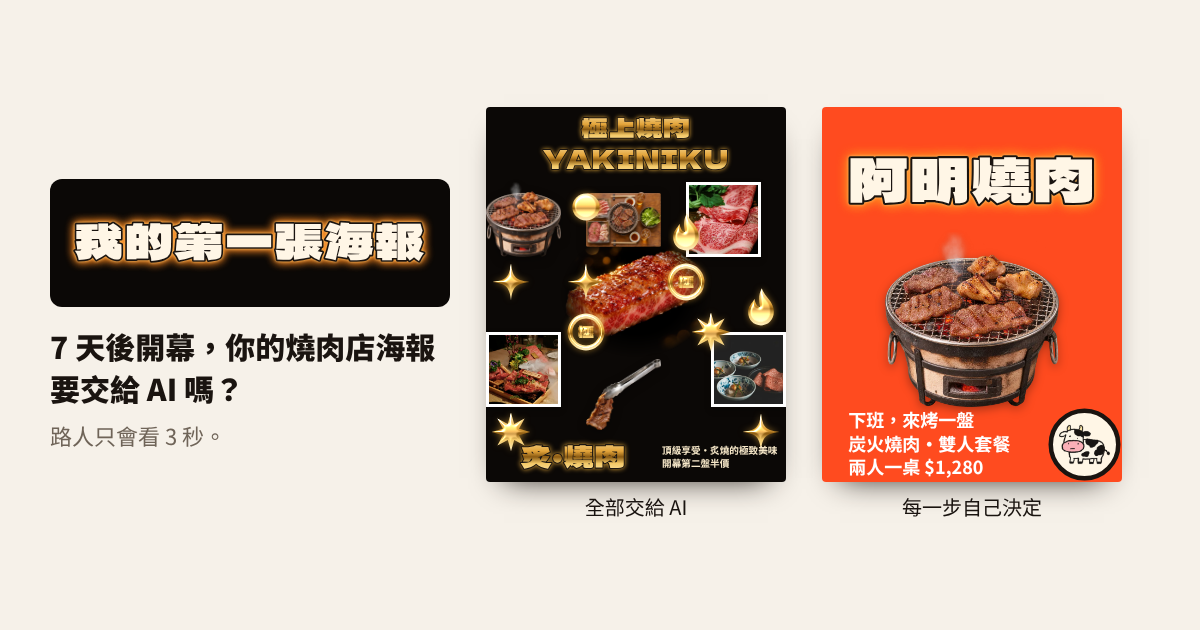
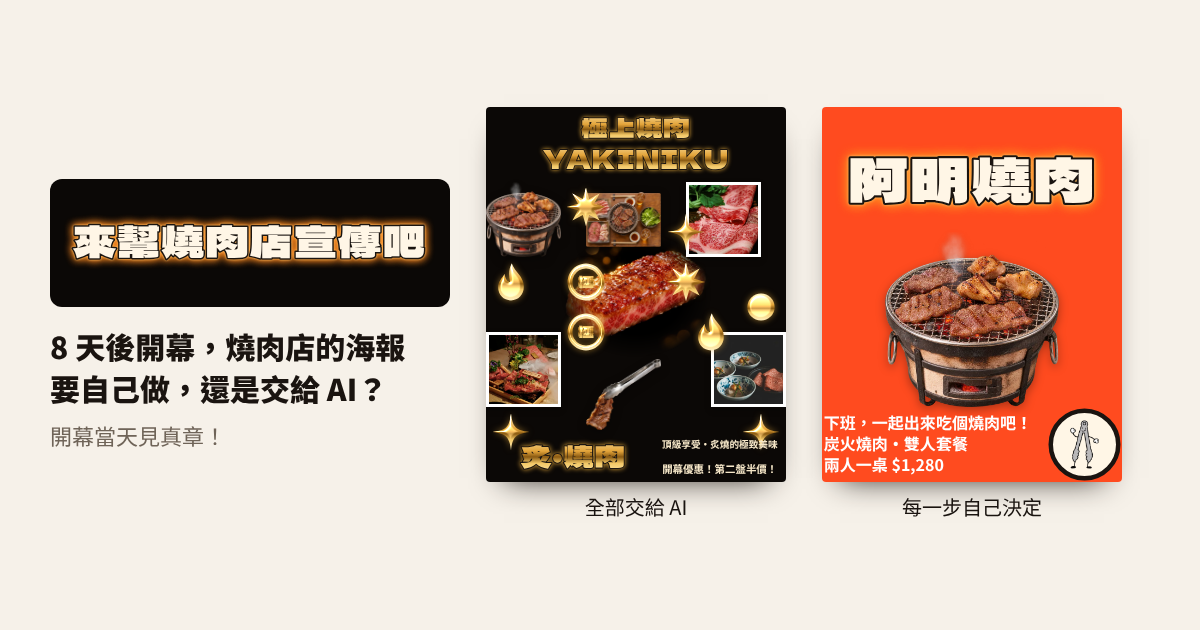
燒肉版依總文件（Kiki 11/20 修改）更新到 v0.2
文字
- 開場：大標「來幫燒肉店宣傳吧」、內文「肉都是我自己切的，海報也自己做吧！」「開幕當天見真章！」
- 時間不夠的提示改成「時間不夠了，……」
- 店名標題「你的店名要叫什麼？」、提示「例如：火火燒肉」；AI 店名換成熊哥燒肉、肉五花；店名判斷拿掉「網」
- 需求單標題「你要放上什麼資訊？」，選項改成店的屬性、主打商品、消費金額、店的調性、訂位電話、開幕優惠、行銷，海報上的字照文件更新
- AI 生成的話拿掉「很吸睛吧？✨」和 ✨
- 送印小字拿掉橫幅；收尾「如果每張海報都長這樣，這是你想要的世界嗎？」；頁尾只留版本和專題名

品牌識別備註（Kiki 要求改寫成好懂的一句話）
- 店名：品牌識別 1／3・名字｜客人記住你的第一步，是叫得出你的名字。
- Logo：品牌識別 2／3・記號｜名字之外，再給客人一個圖案，看一眼就認得。
- 顏色：品牌識別 3／3・代表色｜同一組顏色一直用，客人遠遠看到就知道是你。

功能
- Logo 的吉祥物印章每局隨機出現小牛、火苗或夾子
- 文字資訊每一行變成獨立物件，可以分開拖動、放大縮小、刪掉；「放回文字資訊」只放回被刪掉的那幾行
- 開幕倒數改成 8 天，全部自己做（含找人看、分層檔送印）剛好用完（Y2K 版仍是 7 天）

計分
- 背景是翠綠、桃粉 M−4（原本是黑底 M−4）
- 「文字資訊超過 4 行 K−10」改成數獨立的文字行
- 三條路線重測：全交給 AI 11（看不懂）、一半一半 45–47（一間店）、全部自己做 89（寶藏小店，剩 0 天）

另外更新分享預覽圖與網頁標題

Claude-Session: https://claude.ai/code/session_01V34SnxdM24RdT7XxqL4GW3

diff --git a/yakiniku/index.html b/yakiniku/index.html
@@ -3,10 +3,10 @@
 <head>
 <meta charset="utf-8">
 <meta name="viewport" content="width=device-width,initial-scale=1,maximum-scale=1">
-<title>我的第一張海報｜燒肉店</title>
-<meta name="description" content="7 天後開幕，做出你燒肉店的第一張海報。全部交給 AI 很快也很高級，但路人看得懂嗎？">
-<meta property="og:title" content="我的第一張海報｜燒肉店">
-<meta property="og:description" content="7 天後開幕，做出你燒肉店的第一張海報。全部交給 AI 很快也很高級，但路人看得懂嗎？">
+<title>來幫燒肉店宣傳吧｜海報遊戲</title>
+<meta name="description" content="8 天後開幕，做出你燒肉店的第一張海報。自己做，還是交給 AI？開幕當天見真章！">
+<meta property="og:title" content="來幫燒肉店宣傳吧｜海報遊戲">
+<meta property="og:description" content="8 天後開幕，做出你燒肉店的第一張海報。自己做，還是交給 AI？開幕當天見真章！">
 <meta property="og:image" content="https://merelhuang1989-source.github.io/y2k-poster-game/yakiniku/og.png">
 <meta property="og:url" content="https://merelhuang1989-source.github.io/y2k-poster-game/yakiniku/">
 <meta property="og:type" content="website">
@@ -37,6 +37,8 @@ body{font-family:"Noto Sans TC","PingFang TC",sans-serif;color:var(--ink);backgr
 h2{font-size:22px;margin:0 0 6px;font-weight:900}
 p{line-height:1.65;margin:6px 0}
 .sub{color:var(--mute);font-size:14px}
+.cis{display:inline-block;margin:2px 0 8px;padding:5px 10px;border-radius:8px;background:#fff3e0;border:1.5px solid #ffb37a;font-size:13.5px;line-height:1.5}
+.cis b{color:#d13a12;margin-right:4px}
 .opts{display:grid;gap:10px;margin-top:14px}
 .opt{display:flex;gap:12px;align-items:center;text-align:left;width:100%;border:2px solid var(--line);background:#fff;border-radius:12px;padding:12px;font:inherit;color:inherit;cursor:pointer}
 .opt:active{transform:scale(.99)}
@@ -163,7 +165,7 @@ input[type=text]{width:100%;font:inherit;font-size:18px;padding:12px 14px;border
    資料都在 DATA 區，要改文字或數值只改這一區。正本：Drive「海報遊戲_燒肉_總文件（唯一正本）」
    ========================================================= */
 const SURVEY_URL = 'https://ooopenlab.cc/preview/yyfDpRRFjwKCDO0Lup46'; // 問卷 C（目前是預覽網址）
-const START_DAYS = 7;
+const START_DAYS = 8;   // 11/20 Kiki：7 天不夠全部自己做到送印，改 8 天（Y2K 版仍是 7 天）
 const COLS = 12, ROWS = 15;          // 排版格線 12 欄 × 15 列（每格正方形）
 const TITLE_FONT = "Mantou";         // 標題：饅頭黑體（OFL）
 const BODY_FONT = "'Noto Sans TC'";  // 內文：思源黑體（Noto Sans TC）
@@ -176,9 +178,14 @@ const PRODUCTS = [
   {id:'p5', file:'img/prod_tongs.webp', name:'夾起來的烤牛肉'},
   {id:'p6', file:'img/u_bowls.webp', name:'小菜和生肉片', photo:true},
 ];
-const AI_MEAT = 'img/ai_meat.webp';   // AI 自己想時放的「金光發亮的和牛」
-const AI_NAMES = ['炙・燒肉','焰・燒肉','燒肉・極','炭火・匠','燃・燒肉','焔・YAKINIKU','極上和牛'];
-const NAME_HINT = /燒|焼|肉|烤|炭|牛|豬|雞|串|網/;
+const AI_MEAT = 'img/ai_meat.webp';
+const MASCOTS = {
+  cow:   {label:'小牛印章', note:'店名配一隻只屬於你的小牛', file:'img/char_cow.webp'},
+  flame: {label:'火苗印章', note:'店名配一團只屬於你的小火苗', file:'img/char_flame.webp'},
+  tongs: {label:'夾子印章', note:'店名配一支只屬於你的燒烤夾', file:'img/char_tongs.webp'},
+};   // AI 自己想時放的「金光發亮的和牛」
+const AI_NAMES = ['炙・燒肉','焰・燒肉','燒肉・極','炭火・匠','燃・燒肉','熊哥燒肉','肉五花'];
+const NAME_HINT = /燒|焼|肉|烤|炭|牛|豬|雞|串/;
 
 // 背景純色（高彩度市場組；黑是 AI 預設）
 const BGS = {
@@ -194,7 +201,7 @@ const APPETITE = {red:6, yellow:4, black:0, pink:-4, green:-6};
 // 分數四項：K 一眼看懂、T 打中對的人、M 記得住、P 好看（只顯示不計分）
 const LOGOS = {
   gold:  {label:'金色火焰字', note:'跟 AI 圖最像的那種金亮字', fx:{P:8,M:2}},
-  cow:   {label:'小牛印章', note:'店名配一隻只屬於你的小牛', fx:{M:12}},
+  cow:   {label:'吉祥物印章', note:'', fx:{M:12}},   // 圖案每局隨機：小牛、火苗、夾子（見 MASCOTS）
   stamp: {label:'圓形店章', note:'像店章，小小的也認得出來', fx:{M:10,K:3}},
   ai:    {label:'交給 AI', note:'', fx:{M:-10,P:10}},
 };
@@ -211,15 +218,15 @@ const TITLE_STYLES = {
   gold: {label:'金箔金光', fill:'url(#goldG)', glow:'glowGold', fx:{K:-6,P:8}},
 };
 const BRIEF = [
-  {id:'A', label:'客群：附近上班族，下班想跟朋友聚餐', line:'下班，來烤一盤', fx:{T:20}},
-  {id:'B', label:'賣什麼：炭火燒肉、雙人套餐', line:'炭火燒肉・雙人套餐', fx:{K:18}},
-  {id:'C', label:'主打：本週厚切牛舌', line:'本週主打｜厚切牛舌', fx:{K:6,M:4}},
-  {id:'D', label:'價格：兩人一桌 $1,280', line:'兩人一桌 $1,280', fx:{T:10}},
-  {id:'E', label:'店的個性：每一塊肉都是老闆自己切的', line:'每一塊肉都是老闆自己切的', fx:{M:12,T:5}},
-  {id:'F', label:'地址＋營業時間', line:'民生路 ○○ 號｜17:00–24:00', fx:{K:3}},
-  {id:'G', label:'IG 帳號', line:'IG 搜尋店名', fx:{M:3}},
-  {id:'H', label:'開幕優惠：第二盤半價', line:'開幕第二盤半價', fx:{T:3}},
-  {id:'I', label:'熱門詞：「頂級」「極致」「炙燒美味」', line:'頂級享受・炙燒的極致美味', fx:{M:-8,P:5}},
+  {id:'A', label:'客群：附近上班族，下班想跟朋友聚餐', line:'下班，一起出來吃個燒肉吧！', fx:{T:20}},
+  {id:'B', label:'店的屬性', line:'炭火燒肉・雙人套餐', fx:{K:18}},
+  {id:'C', label:'主打商品', line:'本週主打｜厚切牛舌', fx:{K:6,M:4}},
+  {id:'D', label:'消費金額', line:'兩人一桌 $1,280', fx:{T:10}},
+  {id:'E', label:'店的調性', line:'每一塊肉都是老闆自己切的', fx:{M:12,T:5}},
+  {id:'F', label:'地址＋營業時間', line:'大觀路32號｜17:00–24:00', fx:{K:3}},
+  {id:'G', label:'訂位電話', line:'02-0000-0000', fx:{M:3}},
+  {id:'H', label:'開幕優惠', line:'開幕優惠！第二盤半價！', fx:{T:3}},
+  {id:'I', label:'行銷', line:'頂級享受・炙燒的極致美味', fx:{M:-8,P:5}},
 ];
 const AI_BRIEF = ['I','H'];
 
@@ -249,7 +256,7 @@ const RESEARCH = {
 let S;
 function reset(){
   S = {
-    step:'intro', days:START_DAYS, luck:Math.round(Math.random()*10-5),
+    step:'intro', days:START_DAYS, mascot:shuffle(Object.keys(MASCOTS))[0], luck:Math.round(Math.random()*10-5),
     name:'', nameAI:null, aiNamePick:shuffle(AI_NAMES).slice(0,3),
     logo:null, palette:null, titleStyle:null, colorAI:null, bg:null,
     brief:new Set(), briefAI:null, products:new Set(['p1','p3']),
@@ -329,10 +336,9 @@ function scores(st=S){
     const n=els.filter(e=>e.type==='sticker').length;
     P+=Math.min(16,n*2);
     if(n>=8){K-=15;flags.add('clutter')} else if(n>=4){K-=8;flags.add('clutter')}
-    const info=els.find(e=>e.type==='info');
-    if(info && items.length>4)K-=10;
+    if(els.filter(e=>e.type==='info').length>4)K-=10;   // 文字資訊超過 4 行
     if(!st.layoutSelf){M-=8;flags.add('distinct')}
-    if(st.bg==='black'){M-=4}
+    if(st.bg==='green'||st.bg==='pink'){M-=4}
     K+=APPETITE[st.bg]||0;
   }
   if(st.tested)K+=5;
@@ -346,7 +352,7 @@ function scores(st=S){
 /* ===================== 海報 ===================== */
 function logoSVG(kind, name, ink){
   const ch=[...(name||'燒肉')].filter(c=>c.trim()&&!/[・·]/.test(c)).slice(0,2).join('');
-  if(kind==='cow') return `<svg viewBox="0 0 100 100"><circle cx="50" cy="50" r="45" fill="#fff6e6" stroke="${ink==='#ffffff'?'#1a1410':ink}" stroke-width="6"/><image href="img/char_cow.webp" x="16" y="20" width="68" height="60" preserveAspectRatio="xMidYMid meet"/></svg>`;
+  if(kind==='cow') return `<svg viewBox="0 0 100 100"><circle cx="50" cy="50" r="45" fill="#fff6e6" stroke="${ink==='#ffffff'?'#1a1410':ink}" stroke-width="6"/><image href="${MASCOTS[S.mascot||'cow'].file}" x="18" y="18" width="64" height="64" preserveAspectRatio="xMidYMid meet"/></svg>`;
   if(kind==='stamp') return `<svg viewBox="0 0 100 100"><circle cx="50" cy="50" r="43" fill="none" stroke="${ink}" stroke-width="6"/><circle cx="50" cy="50" r="35" fill="none" stroke="${ink}" stroke-width="2"/><text x="50" y="50" dy=".36em" text-anchor="middle" font-family="${TITLE_FONT}" font-size="${[...ch].length>1?28:40}" fill="${ink}">${esc(ch)}</text></svg>`;
   return `<svg viewBox="0 0 100 100"><g filter="url(#foil)"><use href="#s-flame" x="6" y="2" width="88" height="96" fill="url(#goldG)"/></g><text x="50" y="62" dy=".36em" text-anchor="middle" font-family="${TITLE_FONT}" font-size="24" fill="#2a1a06">${esc(ch)}</text></svg>`;
 }
@@ -365,7 +371,7 @@ function renderPoster(els, opts={}){
     else if(e.type==='product'){const p=prodOf(e.pid); inner=`<img class="${p.photo?'ph':''}" src="${p.file}" alt="">`}
     else if(e.type==='aimeat') inner=`<img class="aiglow" src="${AI_MEAT}" alt="">`;
     else if(e.type==='sticker') inner=stickerSVG(e.sym);
-    else if(e.type==='info') inner=infoSVG(cx.lines, e, nb.ink);
+    else if(e.type==='info') inner=infoSVG(e.line!=null?[e.line]:cx.lines, e, nb.ink);
     const sel = opts.edit && S.sel===e.id;
     html+=`<div class="el ${e.type} ${sel?'sel':''}" data-id="${e.id}" style="${pos}">${inner}${sel?'<i class="hdl" data-hdl="1"></i>':''}</div>`;
   }
@@ -380,7 +386,9 @@ function infoSVG(lines, e, ink){
 }
 
 let uid=0;
-function aiLayout(name=S.name, st=S){
+// 一行一個文字物件：由下往上疊在左下角（9 欄寬、1 列高）
+function infoEls(lines){const n=lines.length;return lines.map((line,i)=>({id:++uid,type:'info',line,c:0,r:Math.max(0,15-n+i),w:9,h:1}))}
+function aiLayout(name=S.name, st=S, lines=briefLines()){
   const els=[]; const R=(c,r,w,h)=>({c,r,w,h});
   if(st.briefAI){
     els.push({id:++uid,type:'title',txt:'極上燒肉 YAKINIKU',...R(0,0,12,3)});
@@ -388,7 +396,7 @@ function aiLayout(name=S.name, st=S){
     [[0,3],[4,3],[8,3],[0,9],[4,10],[9,9]].forEach((p,i)=>els.push({id:++uid,type:'product',pid:PRODUCTS[i].id,...R(p[0],p[1],3,3)}));
     shuffle([[3,3],[7,4],[0,6],[10,7],[3,8],[8,8],[0,12],[10,12],[3,6],[7,6]]).forEach((p,i)=>els.push({id:++uid,type:'sticker',sym:STICKERS[i%STICKERS.length],...R(Math.min(p[0],10),p[1],2,2)}));
     els.push({id:++uid,type:'title',txt:name,...R(0,13,7,2)});
-    els.push({id:++uid,type:'info',...R(7,13,5,2)});
+    lines.forEach((line,i)=>els.push({id:++uid,type:'info',line,...R(7,Math.max(0,15-lines.length+i),5,1)}));
     return els;
   }
   els.push({id:++uid,type:'title',...R(0,0,12,3)});
@@ -397,7 +405,7 @@ function aiLayout(name=S.name, st=S){
   prods.forEach((pid,i)=>{const s=slots[i%slots.length];els.push({id:++uid,type:'product',pid,...R(...s)})});
   shuffle([[0,3],[10,3],[4,7],[10,9],[0,9],[7,3],[10,11],[0,11],[5,11],[8,11]]).slice(0,9)
     .forEach((p,i)=>els.push({id:++uid,type:'sticker',sym:STICKERS[i%STICKERS.length],...R(p[0],p[1],2,2)}));
-  els.push({id:++uid,type:'info',...R(0,12,9,3)});
+  infoEls(lines).forEach(e=>els.push(e));
   els.push({id:++uid,type:'logo',...R(9,12,3,3)});
   return els;
 }
@@ -407,24 +415,25 @@ function daysBar(){
   let d='';for(let i=0;i<START_DAYS;i++)d+=`<i class="${i>=S.days?'used':''}"></i>`;
   return `<div class="top"><div class="t">燒肉店・第一張海報</div><div class="days">開幕倒數 <b>${S.days}</b> 天<span class="dots">${d}</span></div></div>`;
 }
-function noTimeNote(cost){return canPay(cost)?'':`<p class="sub" style="color:#d13a12">開幕倒數不夠了，這一步只能交給 AI。</p>`}
+function noTimeNote(cost){return canPay(cost)?'':`<p class="sub" style="color:#d13a12">時間不夠了，這一步只能交給 AI。</p>`}
 const bigTitle=(t,ts='white',w=10,h=3)=>`<div class="bigt" style="aspect-ratio:${w}/${h}">${textSVG(t,w,h,{ts,maxLines:2})}</div>`;
 
 const V = {};
 V.intro = () => `
-  ${bigTitle('我的第一張海報','white',10,3.4)}
+  ${bigTitle('來幫燒肉店宣傳吧','white',10,3.4)}
   <div class="card">
-    <p style="font-size:17px;font-weight:700">「現在 AI 這麼方便，我也來開一間燒肉店吧！」</p>
-    <p class="sub">你的店 7 天後開幕，現在要做第一張宣傳海報。每一步都可以自己決定，或交給 AI。自己做比較花時間，交給 AI 很快，而且看起來都很高級。</p>
-    <p class="sub">開幕那天，路人只會看你的海報 3 秒。</p>
+    <p style="font-size:17px;font-weight:700">「肉都是我自己切的，海報也自己做吧！」</p>
+    <p class="sub">你的燒肉店 ${START_DAYS} 天後開幕，現在要做第一張宣傳海報。每一步都可以自己決定，或交給 AI。</p>
+    <p class="sub">開幕當天見真章！</p>
     <button class="btn" data-go="name">開始做海報</button>
   </div>`;
 V.name = () => `
   <div class="card">
     <div class="step">STEP 1／7　店名</div>
-    <h2>你的店叫什麼？</h2>
+    <h2>你的店名要叫什麼？</h2>
+    <div class="cis"><b>品牌識別 1／3・名字</b>客人記住你的第一步，是叫得出你的名字。</div>
     <p class="sub">好記、念得出來，最好一聽就知道賣什麼。</p>
-    <input type="text" id="nm" maxlength="12" placeholder="例如：阿明燒肉" value="${S.nameAI?'':esc(S.name)}">
+    <input type="text" id="nm" maxlength="12" placeholder="例如：火火燒肉" value="${S.nameAI?'':esc(S.name)}">
     <button class="btn" data-act="nameSelf" ${canPay(1)?'':'disabled'}>用這個名字 <span class="cost">−1 天</span></button>
     ${noTimeNote(1)}
     <div class="label">或是讓 AI 取一個（不花時間）</div>
@@ -440,8 +449,9 @@ function optBtn(act, v, title, note, cost, pv=''){
 V.logo = () => `<div class="card">
     <div class="step">STEP 2／7　Logo</div>
     <h2>「${esc(S.name)}」的 Logo</h2>
+    <div class="cis"><b>品牌識別 2／3・記號</b>名字之外，再給客人一個圖案，看一眼就認得。</div>
     <p class="sub">之後每一張圖都會放它。它是客人認出你的記號。</p>
-    <div class="opts">${['gold','cow','stamp'].map(k=>optBtn('logo',k,LOGOS[k].label,LOGOS[k].note,1,`<div style="background:${BGS.red.bg};width:100%;height:100%;padding:8px">${logoSVG(k,S.name,'#ffffff')}</div>`)).join('')}</div>
+    <div class="opts">${['gold','cow','stamp'].map(k=>optBtn('logo',k,k==='cow'?MASCOTS[S.mascot].label:LOGOS[k].label,k==='cow'?MASCOTS[S.mascot].note:LOGOS[k].note,1,`<div style="background:${BGS.red.bg};width:100%;height:100%;padding:8px">${logoSVG(k,S.name,'#ffffff')}</div>`)).join('')}</div>
     ${noTimeNote(1)}
     <button class="btn ai" data-act="logo" data-v="ai">交給 AI 幫我做 ✨ <span class="cost ai">不花時間</span></button>
   </div>`;
@@ -450,6 +460,7 @@ V.color = () => {
   return `<div class="card">
     <div class="step">STEP 3／7　顏色和字</div>
     <h2>店的顏色</h2>
+    <div class="cis"><b>品牌識別 3／3・代表色</b>同一組顏色一直用，客人遠遠看到就知道是你。</div>
     <div class="opts">${Object.keys(PALETTES).map(k=>`<button class="opt ${S._pal===k?'sel':''}" data-act="pickPal" data-v="${k}"><div class="pv" style="background:${BGS[PALETTES[k].bg].bg}"></div><div class="tx"><b>${PALETTES[k].label}</b><small>${PALETTES[k].note}</small></div></button>`).join('')}</div>
     <div class="label">店名的字（饅頭黑體，像巷口亮著的燈籠招牌）</div>
     <div class="chips">${Object.keys(TITLE_STYLES).map(k=>`<button class="chip ${S._ts===k?'on':''}" data-act="pickTs" data-v="${k}">${TITLE_STYLES[k].label}</button>`).join('')}</div>
@@ -462,9 +473,9 @@ V.color = () => {
 V.brief = () => `
   <div class="card">
     <div class="step">STEP 4／7　給 AI 的需求單</div>
-    <h2>你要告訴 AI 什麼？</h2>
+    <h2>你要放上什麼資訊？</h2>
     <p class="sub">勾選的內容，AI 會寫進海報。AI 只知道你告訴它的事。</p>
-    <div class="chips">${BRIEF.map(b=>`<button class="chip ${S.brief.has(b.id)?'on':''}" data-act="brief" data-v="${b.id}">${b.label}</button>`).join('')}</div>
+    <div class="chips">${BRIEF.map(b=>`<button class="chip ${S.brief.has(b.id)?'on':''}" data-act="brief" data-v="${b.id}">${b.label.includes('：')?b.label:`${b.label}：${b.line}`}</button>`).join('')}</div>
     <div class="label">海報上要放哪些菜？（已選 ${S.products.size} 樣）</div>
     <div class="prods">${PRODUCTS.map(p=>`<div class="prod ${S.products.has(p.id)?'on':''}" data-act="prod" data-v="${p.id}"><img class="${p.photo?'ph':''}" src="${p.file}" alt="">${p.name}</div>`).join('')}</div>
     <button class="btn" data-act="briefSelf" ${S.brief.size&&S.products.size&&canPay(1)?'':'disabled'}>送出需求單 <span class="cost">−1 天</span></button>
@@ -475,8 +486,8 @@ V.gen = () => `<div class="card"><div class="step">STEP 5／7　AI 生成</div><
 function genDone(){
   const n=S.elements.filter(e=>e.type==='sticker').length;
   const msg = S.briefAI
-    ? '完成！我做了一張超高級的燒肉海報：黑底、金光、一塊會發光的和牛，標題寫「極上燒肉 YAKINIKU」，六道菜全放上去了，現在很流行這種風格喔 ✨（店名我放在最下面）'
-    : `完成！我幫你加了 ${n} 個金色火花，還把你給的 ${briefLines().length} 項資訊都放進去了。很吸睛吧？✨`;
+    ? '完成！我做了一張超高級的燒肉海報：黑底、金光、一塊會發光的和牛，標題寫「極上燒肉 YAKINIKU」，六道菜全放上去了，現在很流行這種風格喔（店名我放在最下面）'
+    : `完成！我幫你加了 ${n} 個金色火花，還把你給的 ${briefLines().length} 項資訊都放進去了。`;
   $('#genbox').innerHTML = `${renderPoster(S.elements)}<div class="ai-say"><div class="who">AI</div><div class="bubble">${msg}</div></div><button class="btn" data-go="layout">下一步</button>`;
 }
 V.layout = () => `
@@ -502,7 +513,7 @@ V.editor = () => {
     <div class="chips">${Object.keys(BGS).map(k=>`<button class="chip sw ${S.bg===k?'on':''}" data-act="bg" data-v="${k}"><i style="background:${BGS[k].bg}"></i>${BGS[k].label}</button>`).join('')}</div>
     <div class="label">菜（點一下放進去或拿掉）</div>
     <div class="prods">${PRODUCTS.map(p=>`<div class="prod ${inPoster.has(p.id)?'on':''}" data-act="togProd" data-v="${p.id}"><img class="${p.photo?'ph':''}" src="${p.file}" alt="">${p.name}</div>`).join('')}</div>
-    <div class="chips"><button class="chip" data-act="addSticker">＋ 加一個金色火花</button>${S.elements.some(e=>e.type==='info')?'':'<button class="chip" data-act="addInfo">＋ 放回文字資訊</button>'}${S.elements.some(e=>e.type==='logo')?'':'<button class="chip" data-act="addLogo">＋ 放回 Logo</button>'}</div>
+    <div class="chips"><button class="chip" data-act="addSticker">＋ 加一個金色火花</button>${missingLines().length?'<button class="chip" data-act="addInfo">＋ 放回文字資訊</button>':''}${S.elements.some(e=>e.type==='logo')?'':'<button class="chip" data-act="addLogo">＋ 放回 Logo</button>'}</div>
     <button class="btn" data-act="layoutDone">排好了</button>
   </div>`;
 };
@@ -531,7 +542,7 @@ V.export = () => `
   <div class="card">
     <div class="step">送印＋張貼</div>
     <h2>要交什麼檔案給印刷廠？</h2>
-    <p class="sub">海報要印成 A2 貼在店門口，另外做一條橫幅。</p>
+    <p class="sub">海報要印成 A2 貼在店門口。</p>
     <div class="opts">
       ${optBtn('exp','layer','整理分層檔給印刷廠','字和圖分開、尺寸正確，印大也清楚',1)}
       ${optBtn('exp','jpg','直接存 JPG 送印','最快，印刷廠會自己放大',0)}
@@ -539,8 +550,9 @@ V.export = () => `
     ${noTimeNote(1)}
   </div>`;
 function twinPoster(name){
-  const els=aiLayout(name,{briefAI:false,products:new Set(['p1','p3','p4'])});
-  return renderPoster(els,{ctx:{name, bg:'black', ts:'gold', lines:['頂級享受・炙燒的極致美味','開幕第二盤半價'], logo:'gold'}});
+  const lines=['頂級享受・炙燒的極致美味','開幕優惠！第二盤半價！'];
+  const els=aiLayout(name,{briefAI:false,products:new Set(['p1','p3','p4'])},lines);
+  return renderPoster(els,{ctx:{name, bg:'black', ts:'gold', lines, logo:'gold'}});
 }
 V.end = () => {
   const sc=scores(); const end=ENDINGS.find(e=>sc.total>=e.min);
@@ -578,12 +590,12 @@ V.end = () => {
     <div class="research">${research.slice(0,3).map(r=>`<p>・${r}</p>`).join('')}<p style="color:#8a6a3a">・${APPETITE_NOTE}</p></div>
   </div>
   <div class="card" style="margin-top:12px;text-align:center">
-    <p style="font-size:17px;font-weight:700">如果街上每張海報都長這樣，<br>這是你想要的世界嗎？</p>
+    <p style="font-size:17px;font-weight:700">如果每張海報都長這樣，<br>這是你想要的世界嗎？</p>
     <a class="btn" href="${SURVEY_URL}" target="_blank" rel="noopener" style="text-decoration:none">回答問卷（約 2 分鐘）</a>
     <div class="row"><button class="btn ghost" data-act="copy">複製遊戲連結</button><button class="btn ghost" data-act="again">再玩一次</button></div>
     <p class="sub" style="font-size:12.5px">想分享結果，截圖這一頁就可以。</p>
   </div>
-  <div class="foot">試作版 v0.1｜畢業製作《這是你想要的世界嗎？》<br>圖：Kiki 以 AI 生成、Unsplash｜字體：饅頭黑體 Mantou Sans（SIL OFL 1.1）、思源黑體 Noto Sans TC（SIL OFL 1.1）</div>`;
+  <div class="foot">試作版 v0.2｜畢業製作《這是你想要的世界嗎？》</div>`;
 };
 
 /* ===================== 流程 ===================== */
@@ -601,7 +613,7 @@ function render(){
   if(S.step==='editor')bindEditor();
   if(S.step==='gen'&&S.elements.length)genDone();
 }
-function autoAI(stepLabel){toast(`開幕倒數用完了，${stepLabel}交給 AI。`)}
+function autoAI(stepLabel){toast(`時間不夠了，${stepLabel}交給 AI。`)}
 function applyAIColor(){S.palette='black';S.titleStyle='gold';S.bg='black';S.colorAI=true}
 
 app.addEventListener('click', e=>{
@@ -611,7 +623,7 @@ app.addEventListener('click', e=>{
   switch(a){
     case 'nameSelf':{const n=$('#nm').value.trim(); if(!n){toast('先輸入店名');return} S.name=n;S.nameAI=false;spend(1);logStep('店名','me',n);go('logo');break}
     case 'nameAI': S.name=v;S.nameAI=true;logStep('店名','ai',v);toast(`Threads 上已經有 12 家叫「${v}」的店⋯⋯`);go('logo');break;
-    case 'logo': S.logo=v; if(v!=='ai'){spend(1);logStep('Logo','me',LOGOS[v].label)}else logStep('Logo','ai','金色火焰字'); go('color');break;
+    case 'logo': S.logo=v; if(v!=='ai'){spend(1);logStep('Logo','me',v==='cow'?MASCOTS[S.mascot].label:LOGOS[v].label)}else logStep('Logo','ai','金色火焰字'); go('color');break;
     case 'pickPal': S._pal=v; render(); break;
     case 'pickTs': S._ts=v; render(); break;
     case 'colorSelf': S.palette=S._pal;S.titleStyle=S._ts;S.bg=PALETTES[S._pal].bg;S.colorAI=false;spend(1);logStep('顏色和字','me',`${PALETTES[S._pal].label}・${TITLE_STYLES[S._ts].label}`);go('brief');break;
@@ -628,7 +640,10 @@ app.addEventListener('click', e=>{
     case 'bg': S.bg=v; render(); break;
     case 'togProd':{const ex=S.elements.find(x=>x.type==='product'&&x.pid===v); if(ex)S.elements=S.elements.filter(x=>x!==ex); else addProduct(v); render();break}
     case 'addSticker': S.elements.push({id:++uid,type:'sticker',sym:STICKERS[Math.floor(Math.random()*STICKERS.length)],c:10,r:0,w:2,h:2});render();break;
-    case 'addInfo': S.elements.push({id:++uid,type:'info',c:0,r:12,w:9,h:3});render();break;
+    case 'addInfo':{ // 放回的每一行，找左下角還沒被文字占用的那一列
+      const used=r=>S.elements.some(x=>x.type==='info'&&r>=x.r&&r<x.r+x.h);
+      for(const line of missingLines()){let r=14;while(r>0&&used(r))r--;S.elements.push({id:++uid,type:'info',line,c:0,r,w:9,h:1})}
+      render();break}
     case 'addLogo': S.elements.push({id:++uid,type:'logo',c:9,r:12,w:3,h:3});render();break;
     case 'layoutDone': logStep('排版','me','自己調整版面'); if(S.tested){S.testResult=runTest();go('testResult')} else go('test'); break;
     case 'testGo': spend(1);S.tested=true;flashTest();break;
@@ -647,6 +662,7 @@ function moveLayer(dir){
   const j = dir==='top'?els.length : dir==='bottom'?0 : dir==='up'?Math.min(els.length,i+1) : Math.max(0,i-1);
   els.splice(j,0,e); render();
 }
+function missingLines(){const have=new Set(S.elements.filter(e=>e.type==='info').map(e=>e.line));return briefLines().filter(l=>!have.has(l))}
 function addProduct(pid){
   const taken=S.elements.filter(x=>x.type==='product').length;
   const spots=[[0,3,6,6],[6,5,6,6],[3,4,6,6],[0,9,5,4]];
@@ -659,7 +675,9 @@ function clampEl(e){e.w=Math.max(1,Math.min(COLS,e.w));e.h=Math.max(1,Math.min(R
 function resizeSel(d){
   const e=S.elements.find(x=>x.id===S.sel); if(!e)return;
   const step=2*d;
-  if(e.type==='title'||e.type==='info'){ // 字：等比例放大；寬已經滿版時改成加高
+  if(e.type==='info'){ // 一行字：放大＝加寬加高，字跟著變大
+    e.w+=step; e.h+=d;
+  } else if(e.type==='title'){ // 字：等比例放大；寬已經滿版時改成加高
     if(d>0&&e.w>=COLS){e.h+=1}
     else {const k=(e.w+step)/e.w; e.w+=step; e.h=Math.max(1,Math.round(e.h*k));}
   } else { e.w+=step; e.h+=step; }
